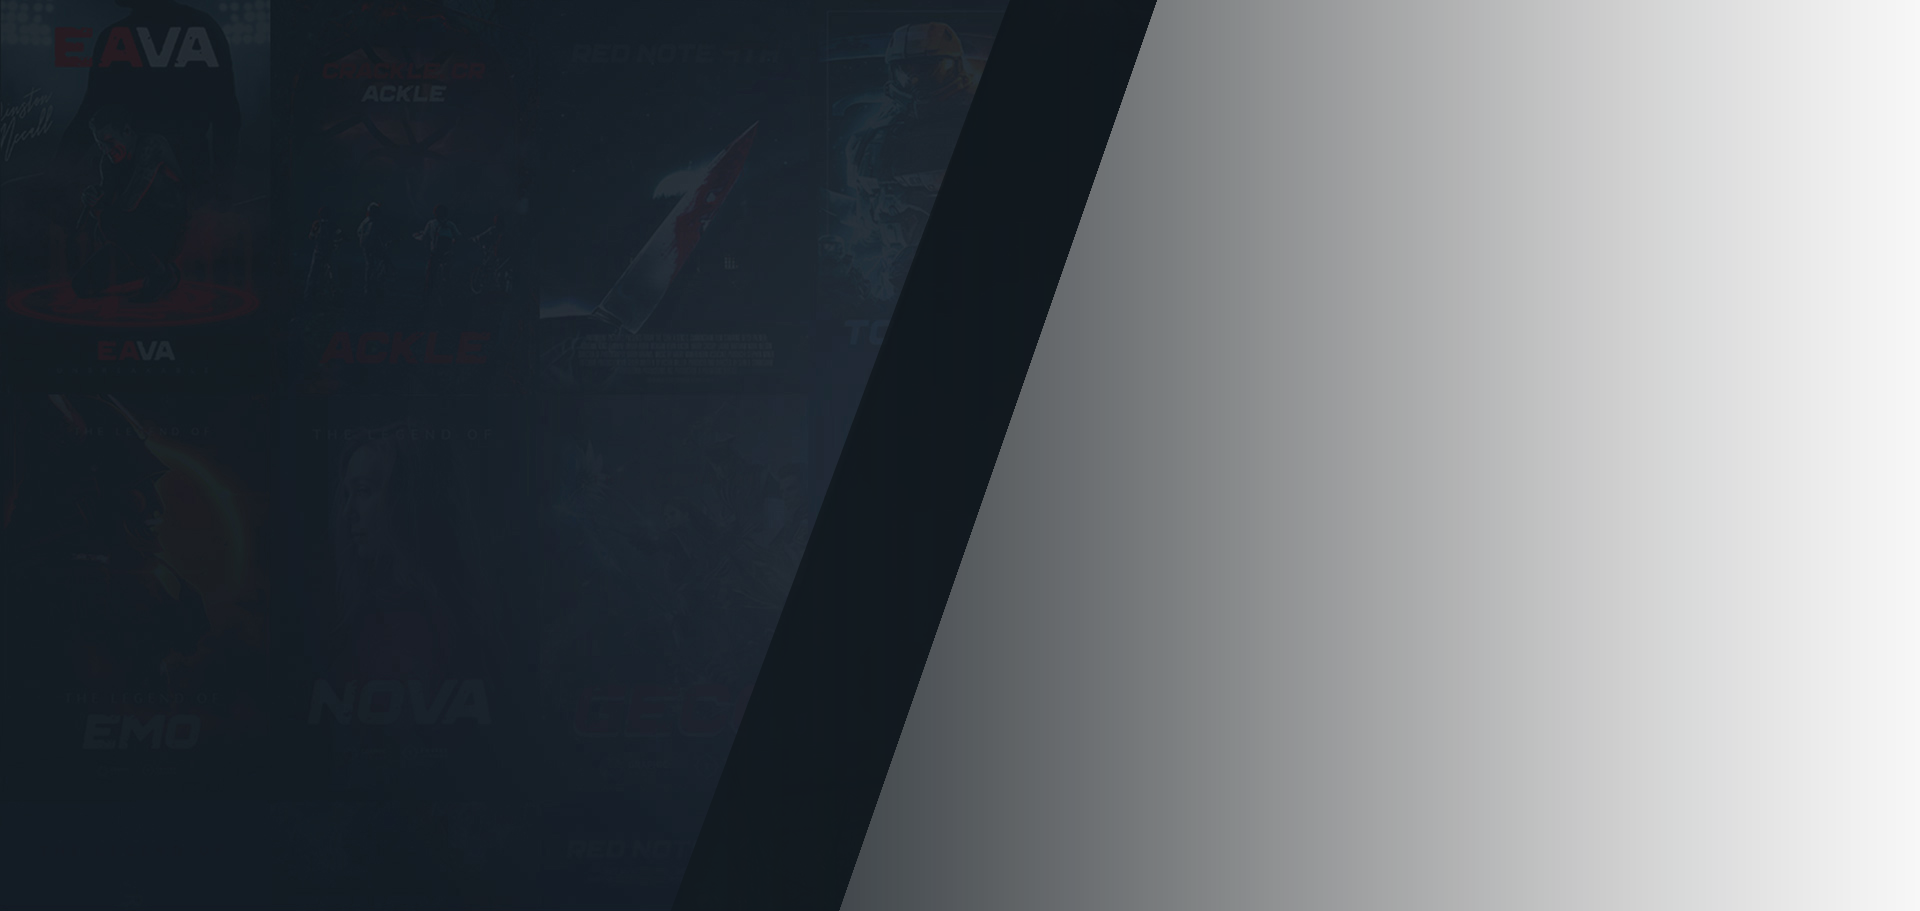
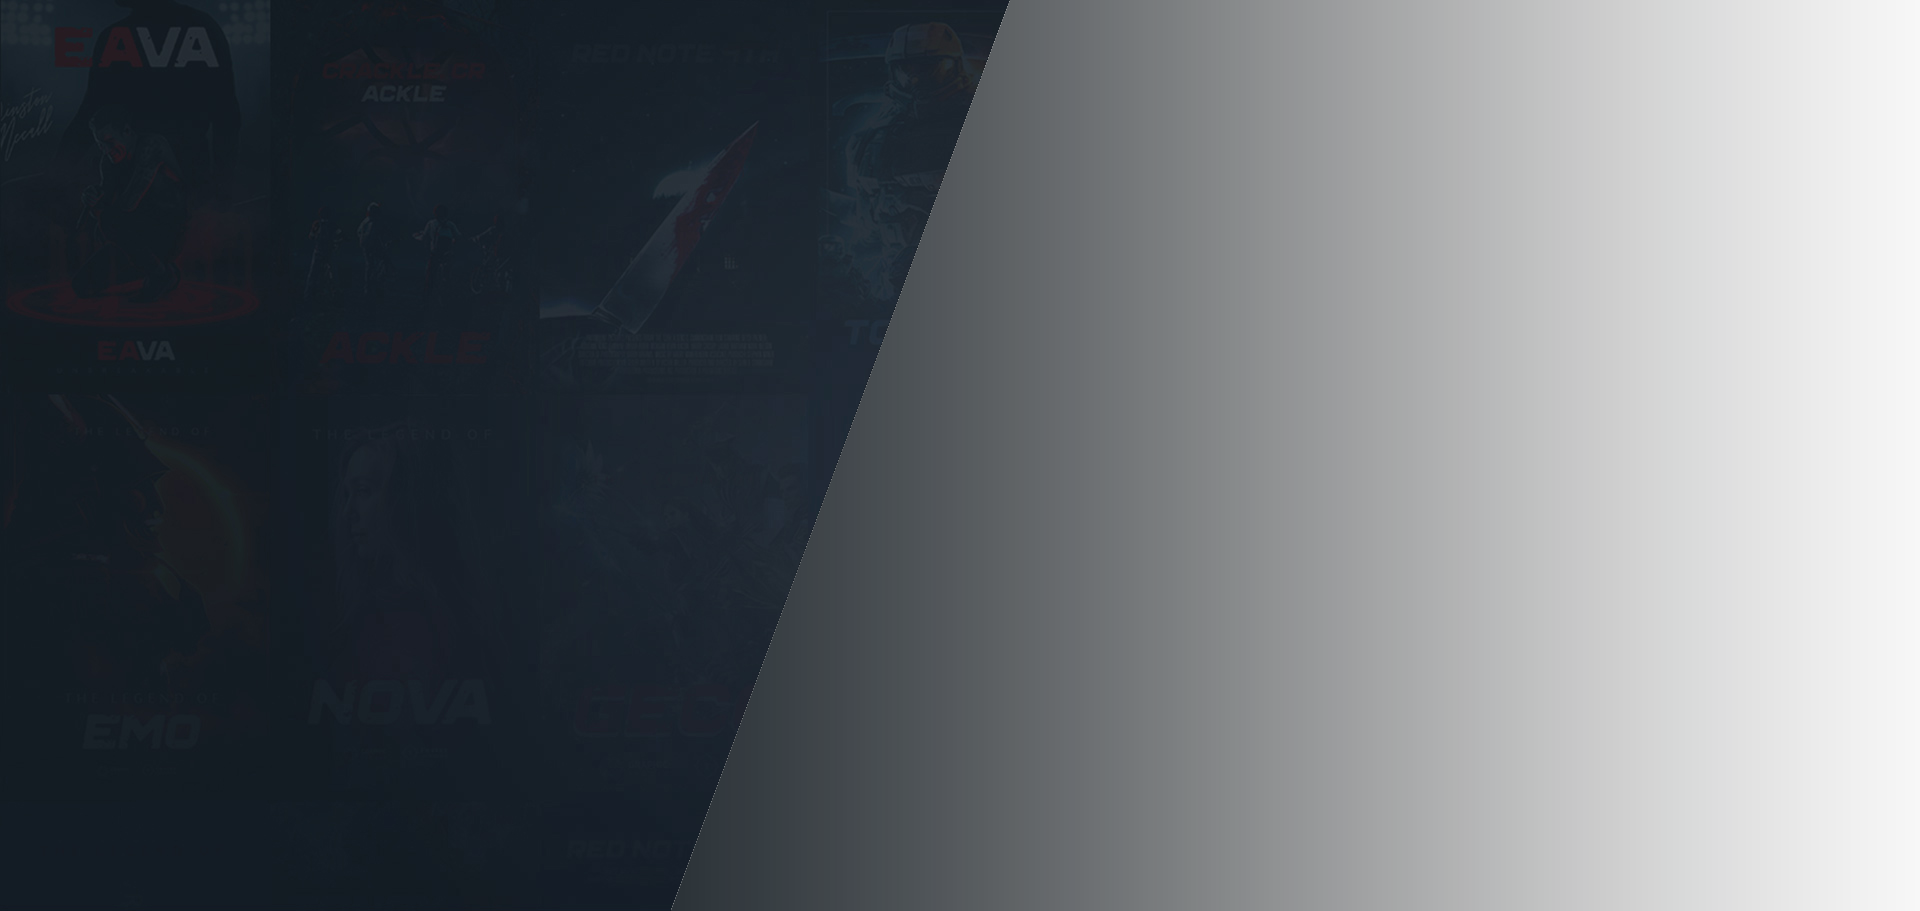
df

Changed region(s): [[0.3438, 0.0, 0.625, 1.0]]

diff --git a/resources/views/Frontend/index.blade.php b/resources/views/Frontend/index.blade.php
@@ -72,7 +72,7 @@
                     </div>
                 </div>
                 <div class="col-xl-7 col-lg-8">
-                    <img src="https://img.freepik.com/premium-photo/group-friends-sitting-dimly-lit-movie-theater-laughing-enjoying-film_1351262-11436.jpg?ga=GA1.1.724749049.1771917239&semt=ais_user_personalization&w=740&q=80" style="
+                    <img src="{{ asset('assets/img/temp.png') }}" style="
     position: fixed;
     z-index: -9;
     top: 0;
